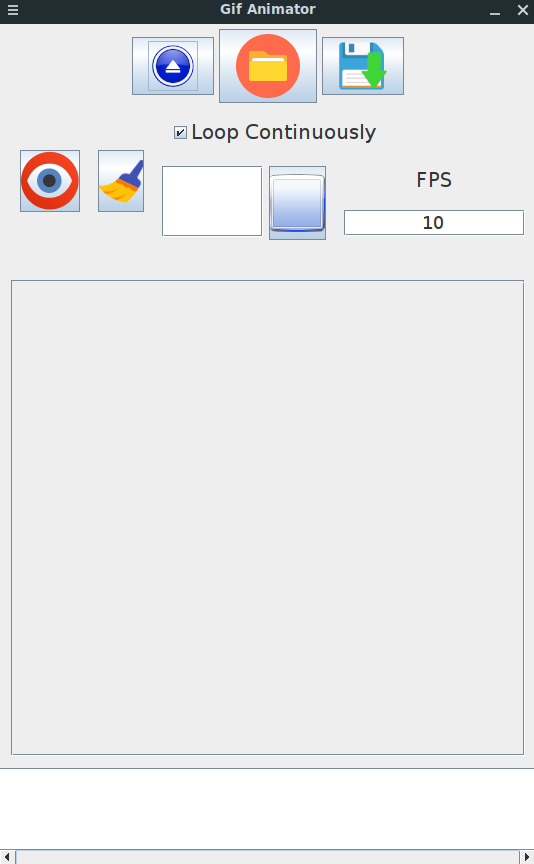
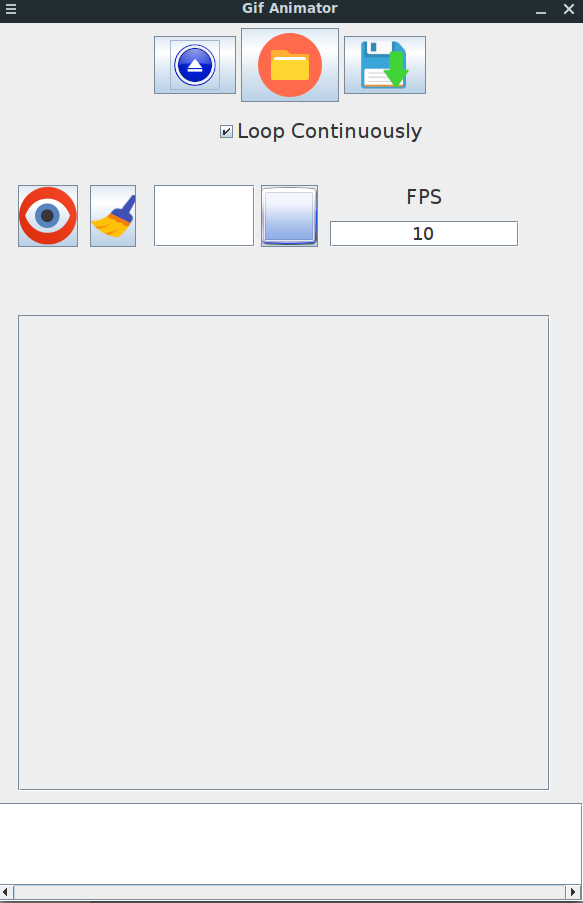
v 2.1

diff --git a/src/main/java/gif/GifFramePanel.java b/src/main/java/gif/GifFramePanel.java
@@ -1,8 +1,9 @@
 
 package gif;
 
-import java.awt.BorderLayout;
+import java.awt.Dimension;
 import java.awt.Font;
+import java.awt.Toolkit;
 import java.awt.Window.Type;
 import java.awt.event.ActionEvent;
 import java.awt.event.ActionListener;
@@ -172,53 +173,44 @@ public class GifFramePanel extends JPanel {
 		});
 
 		GroupLayout layout = new GroupLayout(this);
-		layout.setHorizontalGroup(layout.createParallelGroup(Alignment.LEADING).addGroup(layout.createSequentialGroup()
-				.addGroup(layout.createParallelGroup(Alignment.LEADING).addGroup(layout.createSequentialGroup()
-						.addGap(21).addComponent(preview, GroupLayout.PREFERRED_SIZE, 60, GroupLayout.PREFERRED_SIZE)
-						.addGap(18).addComponent(preview_1, GroupLayout.PREFERRED_SIZE, 46, GroupLayout.PREFERRED_SIZE)
-						.addGap(18).addComponent(texto, GroupLayout.PREFERRED_SIZE, 101, GroupLayout.PREFERRED_SIZE)
-						.addPreferredGap(ComponentPlacement.RELATED)
-						.addComponent(btnNewButton, GroupLayout.PREFERRED_SIZE, 57, GroupLayout.PREFERRED_SIZE)
-						.addGap(18)
-						.addGroup(layout.createParallelGroup(Alignment.LEADING)
-								.addComponent(lblNewLabel, GroupLayout.DEFAULT_SIZE, 181, Short.MAX_VALUE)
-								.addComponent(fps, GroupLayout.DEFAULT_SIZE, 181, Short.MAX_VALUE)))
-						.addGroup(layout.createSequentialGroup().addContainerGap().addComponent(imageScrollPane,
-								GroupLayout.DEFAULT_SIZE, 514, Short.MAX_VALUE)))
-				.addContainerGap())
-				.addGroup(layout.createSequentialGroup().addContainerGap(171, Short.MAX_VALUE).addComponent(loop)
+		layout.setHorizontalGroup(layout.createParallelGroup(Alignment.LEADING)
+				.addGroup(layout.createSequentialGroup().addContainerGap(219, Short.MAX_VALUE).addComponent(loop)
 						.addGap(157))
-				.addGroup(layout.createSequentialGroup().addContainerGap()
-						.addComponent(size, GroupLayout.PREFERRED_SIZE, 514, GroupLayout.PREFERRED_SIZE)
-						.addContainerGap(GroupLayout.DEFAULT_SIZE, Short.MAX_VALUE)));
-		layout.setVerticalGroup(layout.createParallelGroup(Alignment.LEADING).addGroup(layout.createSequentialGroup()
-				.addContainerGap().addComponent(loop).addPreferredGap(ComponentPlacement.RELATED)
-				.addGroup(layout.createParallelGroup(Alignment.LEADING).addGroup(layout.createSequentialGroup()
-						.addGroup(layout.createParallelGroup(Alignment.LEADING)
+				.addGroup(layout.createSequentialGroup().addGap(21).addGroup(layout
+						.createParallelGroup(Alignment.LEADING, false)
+						.addGroup(layout.createSequentialGroup()
+								.addComponent(preview, GroupLayout.PREFERRED_SIZE, 60, GroupLayout.PREFERRED_SIZE)
+								.addPreferredGap(ComponentPlacement.UNRELATED)
+								.addComponent(preview_1, GroupLayout.PREFERRED_SIZE, 46, GroupLayout.PREFERRED_SIZE)
+								.addGap(18)
+								.addComponent(texto, GroupLayout.PREFERRED_SIZE, 101, GroupLayout.PREFERRED_SIZE)
+								.addPreferredGap(ComponentPlacement.RELATED)
+								.addComponent(btnNewButton, GroupLayout.PREFERRED_SIZE, 57, GroupLayout.PREFERRED_SIZE)
+								.addPreferredGap(ComponentPlacement.RELATED)
+								.addGroup(layout.createParallelGroup(Alignment.LEADING, false)
+										.addComponent(lblNewLabel, GroupLayout.DEFAULT_SIZE, GroupLayout.DEFAULT_SIZE,
+												Short.MAX_VALUE)
+										.addComponent(fps, GroupLayout.DEFAULT_SIZE, 189, Short.MAX_VALUE))
+								.addPreferredGap(ComponentPlacement.RELATED, 31, Short.MAX_VALUE))
+						.addComponent(imageScrollPane, GroupLayout.DEFAULT_SIZE, 532, Short.MAX_VALUE)
+						.addComponent(size, GroupLayout.DEFAULT_SIZE, GroupLayout.DEFAULT_SIZE, Short.MAX_VALUE))
+						.addContainerGap(33, Short.MAX_VALUE)));
+		layout.setVerticalGroup(layout.createParallelGroup(Alignment.TRAILING)
+				.addGroup(layout.createSequentialGroup().addContainerGap().addComponent(loop)
+						.addPreferredGap(ComponentPlacement.RELATED, 38, Short.MAX_VALUE)
+						.addGroup(layout.createParallelGroup(Alignment.TRAILING)
 								.addComponent(preview, GroupLayout.PREFERRED_SIZE, 62, GroupLayout.PREFERRED_SIZE)
-								.addComponent(preview_1, GroupLayout.DEFAULT_SIZE, 62, Short.MAX_VALUE))
-						.addGap(31))
-						.addGroup(Alignment.TRAILING,
-								layout.createSequentialGroup().addComponent(lblNewLabel).addGap(18)
-										.addComponent(fps, GroupLayout.PREFERRED_SIZE, GroupLayout.DEFAULT_SIZE,
-												GroupLayout.PREFERRED_SIZE)
-										.addGap(7)))
-				.addPreferredGap(ComponentPlacement.RELATED)
-				.addComponent(size, GroupLayout.PREFERRED_SIZE, 31, GroupLayout.PREFERRED_SIZE)
-				.addPreferredGap(ComponentPlacement.RELATED).addComponent(imageScrollPane, GroupLayout.PREFERRED_SIZE,
-						476, GroupLayout.PREFERRED_SIZE)
-				.addContainerGap()).addGroup(
-						layout.createSequentialGroup().addGap(58)
-								.addGroup(
-										layout.createParallelGroup(Alignment.LEADING)
-												.addGroup(layout.createSequentialGroup()
-														.addComponent(texto, GroupLayout.PREFERRED_SIZE, 71,
-																GroupLayout.PREFERRED_SIZE)
-														.addContainerGap())
-												.addGroup(layout
-														.createSequentialGroup().addComponent(btnNewButton,
-																GroupLayout.DEFAULT_SIZE, 74, Short.MAX_VALUE)
-														.addGap(528)))));
+								.addGroup(layout.createParallelGroup(Alignment.TRAILING)
+										.addGroup(layout.createSequentialGroup().addComponent(lblNewLabel)
+												.addPreferredGap(ComponentPlacement.RELATED, 9, Short.MAX_VALUE)
+												.addComponent(fps, GroupLayout.PREFERRED_SIZE, GroupLayout.DEFAULT_SIZE,
+														GroupLayout.PREFERRED_SIZE))
+										.addComponent(btnNewButton, 0, 0, Short.MAX_VALUE).addComponent(texto)
+										.addComponent(preview_1, GroupLayout.DEFAULT_SIZE, 59, Short.MAX_VALUE)))
+						.addGap(19).addComponent(size, GroupLayout.PREFERRED_SIZE, 31, GroupLayout.PREFERRED_SIZE)
+						.addGap(18)
+						.addComponent(imageScrollPane, GroupLayout.PREFERRED_SIZE, 476, GroupLayout.PREFERRED_SIZE)
+						.addContainerGap()));
 		this.setLayout(layout);
 	}
 
@@ -230,29 +222,34 @@ public class GifFramePanel extends JPanel {
 
 			final JDialog d = new JDialog((JFrame) null, "Animation");
 
-			d.getContentPane().add(new AnimationPanel(animator.getGifFrames(), loop()));
+			d.setType(Type.UTILITY);
 
-			JPanel p = new JPanel();
+			d.addKeyListener(new KeyAdapter() {
 
-			d.setType(Type.POPUP);
+				@Override
 
-			JButton b = new JButton("OK");
+				public void keyPressed(KeyEvent e) {
 
-			b.addActionListener(new ActionListener() {
-
-				public void actionPerformed(ActionEvent e) {
-					d.dispose();
+					if (e.getKeyCode() == KeyEvent.VK_ENTER) {
+						d.dispose();
+					}
 				}
 
 			});
 
-			p.add(b);
-
-			d.getContentPane().add(p, BorderLayout.SOUTH);
+			d.getContentPane().add(new AnimationPanel(animator.getGifFrames(), loop()));
 
 			d.pack();
 
-			d.setLocationRelativeTo(this);
+			Dimension screenSize = Toolkit.getDefaultToolkit().getScreenSize();
+
+			int height = screenSize.height;
+
+			int width = screenSize.width;
+
+			d.setSize(width - 256, height - 304);
+
+			d.setLocationRelativeTo(null);
 
 			d.setVisible(true);
 

diff --git a/src/main/java/utils/Metodos.java b/src/main/java/utils/Metodos.java
@@ -1,6 +1,7 @@
 package utils;
 
 import java.io.File;
+import java.util.Collections;
 import java.util.LinkedList;
 
 public class Metodos {
@@ -78,6 +79,16 @@ public class Metodos {
 		return cadena;
 	}
 
+	public static void renombrar(String ruta1, String ruta2) {
+
+		File f1 = new File(ruta1);
+
+		File f2 = new File(ruta2);
+
+		f1.renameTo(f2);
+
+	}
+
 	public static LinkedList<String> directorio(String ruta, String extension, boolean filtro, boolean carpeta,
 			boolean mover) {
 
@@ -109,9 +120,18 @@ public class Metodos {
 
 						if (folder.isFile()) {
 
-							if (extension.equals("webp") && extensionArchivo.equals("webp")
-									|| extension.equals("jpeg") && extensionArchivo.equals("jpeg")
-									|| extension.equals(".") || extension.equals(extensionArchivo)) {
+							if (fichero.length() > 5 && fichero.substring(0, fichero.length() - 5).contains(".")) {
+
+								renombrar(ruta + fichero, ruta + eliminarPuntos(fichero));
+
+							}
+
+							if ((extension.equals("images")
+									&& (extensionArchivo.equals("jpg") || extensionArchivo.equals("png")
+											|| extensionArchivo.equals("gif") || extensionArchivo.equals("jpeg")))
+									|| (extension.equals("webp") && extensionArchivo.equals("webp")
+											|| extension.equals("jpeg") && extensionArchivo.equals("jpeg")
+											|| extension.equals(".") || extension.equals(extensionArchivo))) {
 
 								if (carpeta) {
 									lista.add(ruta + fichero);
@@ -129,15 +149,13 @@ public class Metodos {
 
 					else {
 
-						if (folder.isDirectory()) {
+						if (carpeta) {
+							lista.add(ruta + fichero);
+						}
 
-							if (carpeta) {
-								lista.add(ruta + fichero);
-							}
+						else {
 
-							else {
-
-								fichero = fichero.trim();
+							if (folder.isDirectory()) {
 
 								if (!fichero.isEmpty()) {
 									lista.add(fichero);
@@ -157,6 +175,8 @@ public class Metodos {
 		catch (Exception e) {
 
 		}
+
+		Collections.sort(lista);
 
 		return lista;
 

diff --git a/src/main/java/gif/ButtonPanel.java b/src/main/java/gif/ButtonPanel.java
@@ -20,9 +20,6 @@ import utils.Metodos;
 
 public class ButtonPanel extends javax.swing.JPanel {
 
-	/**
-	 * 
-	 */
 	private static final long serialVersionUID = 1L;
 
 	private Animator animator;
@@ -123,7 +120,7 @@ public class ButtonPanel extends javax.swing.JPanel {
 
 				LinkedList<String> archivos = new LinkedList<String>();
 
-				archivos = Metodos.directorio(fc.getSelectedFile().toString() + Animator.getSeparador(), ".", true,
+				archivos = Metodos.directorio(fc.getSelectedFile().toString() + Animator.getSeparador(), "images", true,
 						true, false);
 
 				for (int i = 0; i < archivos.size(); i++) {

diff --git a/src/main/java/gif/GifFrameList.java b/src/main/java/gif/GifFrameList.java
@@ -333,4 +333,5 @@ public class GifFrameList extends JList<Object> {
 		}
 
 	}
+
 }
